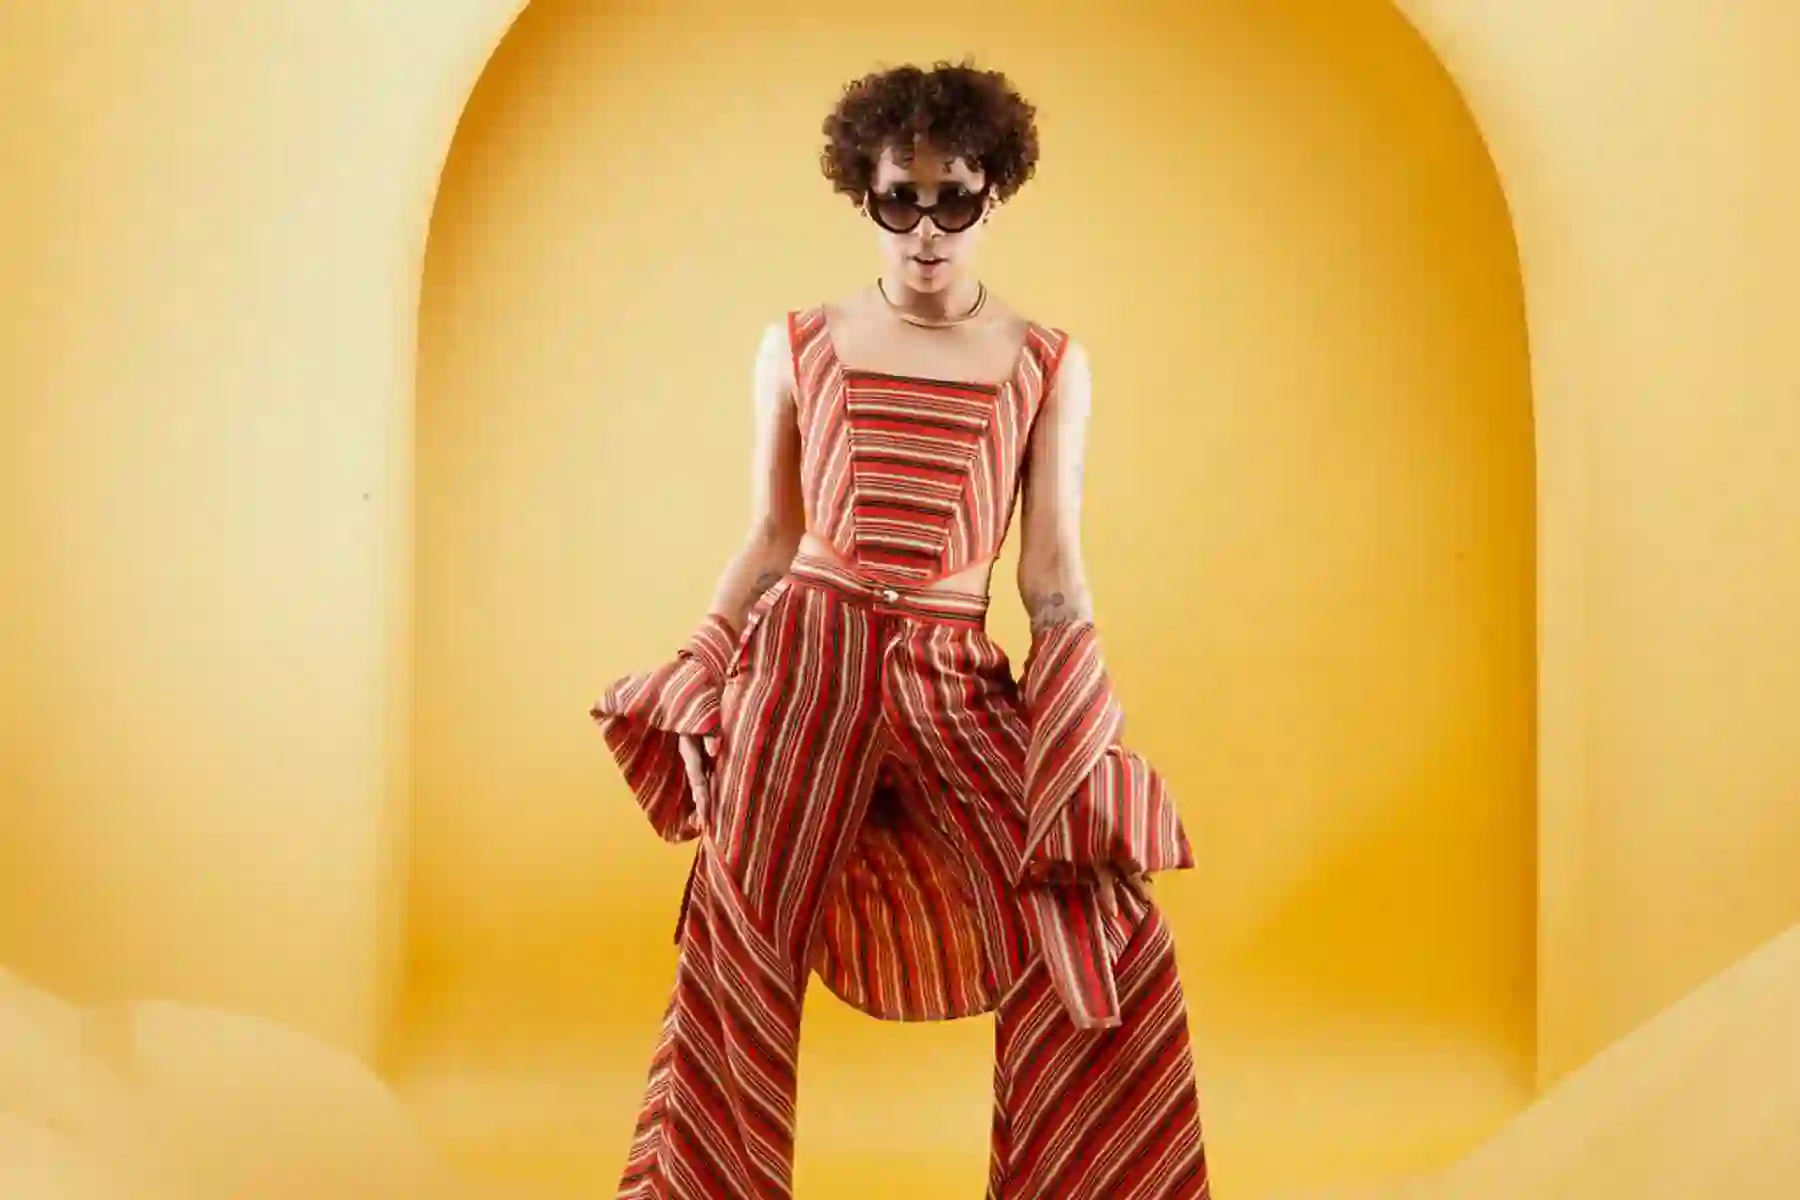
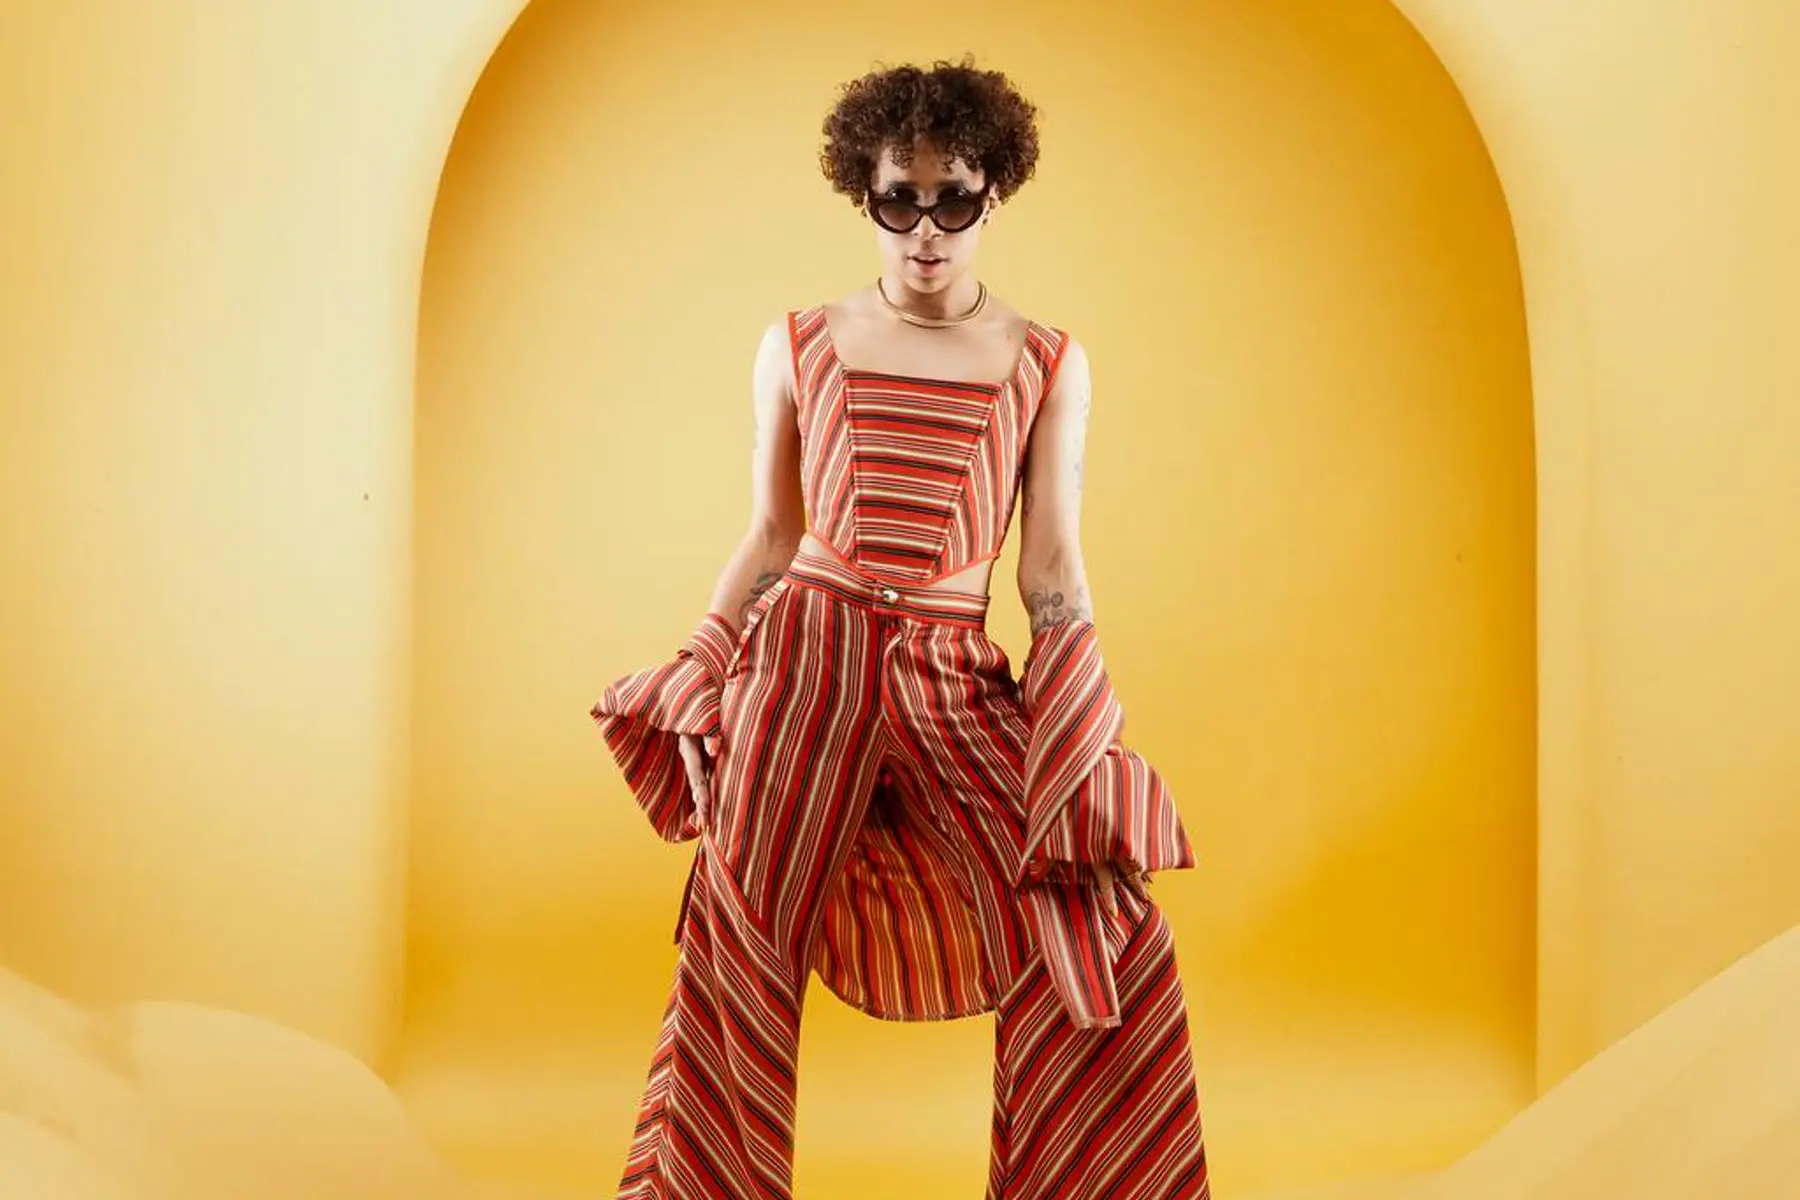
feat(optionA): webp optimize (113MB->23MB), hero comp-card, quick gallery grid, loader hides on DOMContentLoaded

Changed region(s): [[0.3111, 0.2467, 0.6844, 1.0]]

diff --git a/index.html b/index.html
@@ -27,6 +27,14 @@
         <h1 class="hero__name" data-bio="name">Jhon Rojas</h1>
         <p class="hero__loc" data-bio="location">Santiago de Chile</p>
         <a class="hero__cta" href="#contacto">Trabajemos juntos</a>
+        <ul class="hero__stats" aria-label="Ficha técnica">
+          <li><span>Estatura</span><b class="todo" data-stat="height">TODO cm</b></li>
+          <li><span>Busto · Cintura · Cadera</span><b class="todo" data-stat="measures">TODO · TODO · TODO</b></li>
+          <li><span>Calzado</span><b class="todo" data-stat="shoe">TODO EU</b></li>
+          <li><span>Cabello · Ojos</span><b class="todo" data-stat="features">TODO · TODO</b></li>
+          <li><span>Etnia</span><b class="todo" data-stat="ethnicity">TODO</b></li>
+          <li><span>Rubros</span><b data-stat="categories">Editorial · Comercial · Pasarela · Lifestyle</b></li>
+        </ul>
       </div>
     </section>
 
@@ -36,7 +44,7 @@
       <!-- CHAPTER 1: Sobre mí -->
       <section class="chapter chapter--text" data-bg="#4A5152">
         <span class="chapter__num">01</span>
-        <div class="chapter__stage"><div class="chapter__model" style="background-image:url('assets/layers/galeria-01/model.png')"></div></div>
+        <div class="chapter__stage"><div class="chapter__model" style="background-image:url('assets/layers/galeria-01/model.webp')"></div></div>
         <div class="chapter__text">
           <div class="chapter__text-inner">
             <p class="section-kicker">Sobre mí</p>
@@ -51,7 +59,7 @@
       <section class="chapter chapter--text chapter--arch" data-bg="#3F525A">
         <span class="chapter__num">02</span>
         <div class="chapter__bg" style="background-image:url('assets/layers/galeria-03/arch.jpg')"></div>
-        <div class="chapter__stage"><div class="chapter__model" style="background-image:url('assets/layers/galeria-03/model.png')"></div></div>
+        <div class="chapter__stage"><div class="chapter__model" style="background-image:url('assets/layers/galeria-03/model.webp')"></div></div>
         <div class="chapter__text">
           <div class="chapter__text-inner">
             <h3 class="bio__sub">Mi esencia y estilo</h3>
@@ -64,19 +72,19 @@
       <section class="chapter chapter--arch" data-bg="#7D6337">
         <span class="chapter__num">03</span>
         <div class="chapter__bg" style="background-image:url('assets/layers/galeria-04/arch.jpg')"></div>
-        <div class="chapter__stage"><div class="chapter__model" style="background-image:url('assets/layers/galeria-04/model.png')"></div></div>
+        <div class="chapter__stage"><div class="chapter__model" style="background-image:url('assets/layers/galeria-04/model.webp')"></div></div>
       </section>
 
       <!-- CHAPTER 4: foto (antes era arco 05, ahora galeria-07) -->
       <section class="chapter" data-bg="#4A5152">
         <span class="chapter__num">04</span>
-        <div class="chapter__stage"><div class="chapter__model" style="background-image:url('assets/layers/galeria-07/model.png')"></div></div>
+        <div class="chapter__stage"><div class="chapter__model" style="background-image:url('assets/layers/galeria-07/model.webp')"></div></div>
       </section>
 
       <!-- CHAPTER 5: Habilidades -->
       <section class="chapter chapter--text" data-bg="#486069">
         <span class="chapter__num">05</span>
-        <div class="chapter__stage"><div class="chapter__model" style="background-image:url('assets/layers/galeria-06/model.png')"></div></div>
+        <div class="chapter__stage"><div class="chapter__model" style="background-image:url('assets/layers/galeria-06/model.webp')"></div></div>
         <div class="chapter__text">
           <div class="chapter__text-inner">
             <h3 class="bio__sub">Habilidades y versatilidad</h3>
@@ -89,29 +97,48 @@
       <section class="chapter chapter--arch" data-bg="#7D6337">
         <span class="chapter__num">06</span>
         <div class="chapter__bg" style="background-image:url('assets/layers/galeria-05/arch.jpg')"></div>
-        <div class="chapter__stage"><div class="chapter__model" style="background-image:url('assets/layers/galeria-05/model.png')"></div></div>
+        <div class="chapter__stage"><div class="chapter__model" style="background-image:url('assets/layers/galeria-05/model.webp')"></div></div>
       </section>
 
       <!-- CHAPTER 7: foto -->
       <section class="chapter" data-bg="#4A5152">
         <span class="chapter__num">07</span>
-        <div class="chapter__stage"><div class="chapter__model" style="background-image:url('assets/layers/galeria-02/model.png')"></div></div>
+        <div class="chapter__stage"><div class="chapter__model" style="background-image:url('assets/layers/galeria-02/model.webp')"></div></div>
       </section>
 
       <!-- CHAPTER 8: street (fondo calle, parallax) — modelo entra desde la izquierda -->
       <section class="chapter chapter--arch" data-enter="left" data-bg="#3A3A38">
         <span class="chapter__num">08</span>
         <div class="chapter__bg" style="background-image:url('assets/layers/galeria-09/arch.jpg')"></div>
-        <div class="chapter__stage"><div class="chapter__model" style="background-image:url('assets/layers/galeria-09/model.png')"></div></div>
+        <div class="chapter__stage"><div class="chapter__model" style="background-image:url('assets/layers/galeria-09/model.webp')"></div></div>
       </section>
 
       <!-- CHAPTER 9: stairs (fondo escaleras, parallax) — modelo entra desde la derecha -->
       <section class="chapter chapter--arch" data-enter="right" data-bg="#5A5248">
         <span class="chapter__num">09</span>
         <div class="chapter__bg" style="background-image:url('assets/layers/galeria-10/arch.jpg')"></div>
-        <div class="chapter__stage"><div class="chapter__model" style="background-image:url('assets/layers/galeria-10/model.png')"></div></div>
+        <div class="chapter__stage"><div class="chapter__model" style="background-image:url('assets/layers/galeria-10/model.webp')"></div></div>
       </section>
 
+    </section>
+
+    <!-- QUICK GALLERY: fast scan grid (agency-style browsing) -->
+    <section id="quick-gallery" class="gallery" aria-label="Galería rápida">
+      <div class="section-wrap">
+        <p class="section-kicker">Book</p>
+        <h2 class="gallery__title">Selección de trabajo</h2>
+        <div class="gallery__grid">
+          <img src="assets/img/galeria-01.webp" alt="Editorial 1" loading="lazy" />
+          <img src="assets/img/galeria-03.webp" alt="Esencia" loading="lazy" />
+          <img src="assets/img/galeria-04.webp" alt="Arco" loading="lazy" />
+          <img src="assets/img/galeria-07.webp" alt="Comercial" loading="lazy" />
+          <img src="assets/img/galeria-06.webp" alt="Habilidades" loading="lazy" />
+          <img src="assets/img/galeria-05.webp" alt="Arco naranja" loading="lazy" />
+          <img src="assets/img/galeria-02.webp" alt="Lifestyle" loading="lazy" />
+          <img src="assets/img/galeria-09.webp" alt="Street" loading="lazy" />
+          <img src="assets/img/galeria-10.webp" alt="Stairs" loading="lazy" />
+        </div>
+      </div>
     </section>
 
     <!-- CONTACT -->

diff --git a/css/base.css b/css/base.css
@@ -390,3 +390,56 @@ a:focus-visible, .hero__cta:focus-visible {
 @media (prefers-reduced-motion: reduce) {
   .loader__dots span { animation: none; }
 }
+
+/* HERO STATS (comp card) */
+.hero__stats {
+  list-style: none;
+  margin: calc(var(--space) * 5) 0 0;
+  padding: 0;
+  display: grid;
+  grid-template-columns: repeat(2, minmax(0, 1fr));
+  gap: calc(var(--space) * 2) calc(var(--space) * 5);
+  max-width: 620px;
+}
+.hero__stats li {
+  display: flex;
+  flex-direction: column;
+  gap: 2px;
+  border-left: 2px solid var(--accent, #c8a96a);
+  padding-left: calc(var(--space) * 2);
+}
+.hero__stats span {
+  font-size: 0.72rem;
+  letter-spacing: 0.08em;
+  text-transform: uppercase;
+  opacity: 0.6;
+}
+.hero__stats b {
+  font-size: 0.98rem;
+  font-weight: 600;
+}
+.hero__stats b.todo { color: var(--accent, #c8a96a); font-style: italic; opacity: 0.85; }
+
+/* QUICK GALLERY GRID */
+.gallery { padding: calc(var(--space) * 12) 0; border-top: 1px solid var(--border, #2a2a2f); }
+.gallery__title { font-family: var(--font-display); font-size: clamp(1.4rem, 3vw, 2.2rem); margin: calc(var(--space) * 2) 0 calc(var(--space) * 6); }
+.gallery__grid {
+  display: grid;
+  grid-template-columns: repeat(3, 1fr);
+  gap: calc(var(--space) * 2);
+}
+.gallery__grid img {
+  width: 100%;
+  height: 42vh;
+  object-fit: cover;
+  border-radius: 10px;
+  background: #111;
+}
+@media (max-width: 820px) {
+  .gallery__grid { grid-template-columns: repeat(2, 1fr); }
+  .gallery__grid img { height: 30vh; }
+  .hero__stats { grid-template-columns: 1fr; }
+}
+@media (max-width: 520px) {
+  .gallery__grid { grid-template-columns: 1fr; }
+}

diff --git a/js/loader.js b/js/loader.js
@@ -1,6 +1,7 @@
-// Hide the loading overlay once the page is ready.
-// Fallback timeout guarantees the user is never trapped behind the spinner
-// if some heavy image is slow to fire window.load.
+// Hide the loading overlay as soon as the DOM is ready.
+// The model PNGs load as CSS backgrounds and are heavy; waiting for window.load
+// would trap the user behind the spinner. Hide on DOMContentLoaded + a safety
+// timeout so the page is never stuck.
 (function () {
   var loader = document.getElementById('loader');
   function hide() {
@@ -8,10 +9,11 @@
     loader.classList.add('is-hidden');
     setTimeout(function () { if (loader && loader.parentNode) loader.parentNode.removeChild(loader); }, 600);
   }
-  if (document.readyState === 'complete') {
+  if (document.readyState !== 'loading') {
     hide();
   } else {
-    window.addEventListener('load', hide);
+    document.addEventListener('DOMContentLoaded', hide);
   }
-  setTimeout(hide, 3000);
+  // Absolute safety net
+  setTimeout(hide, 2500);
 })();
